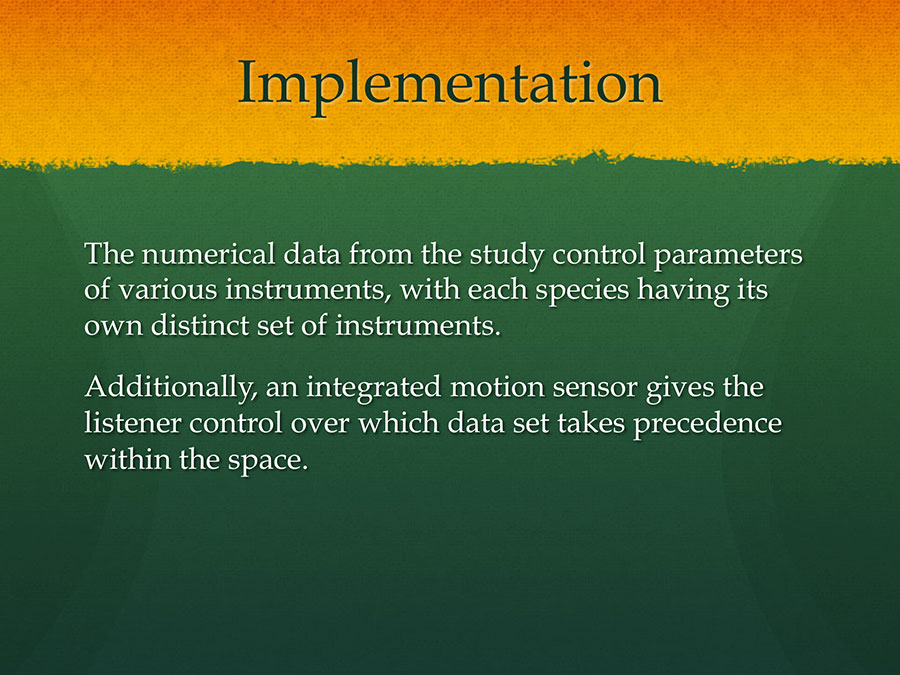
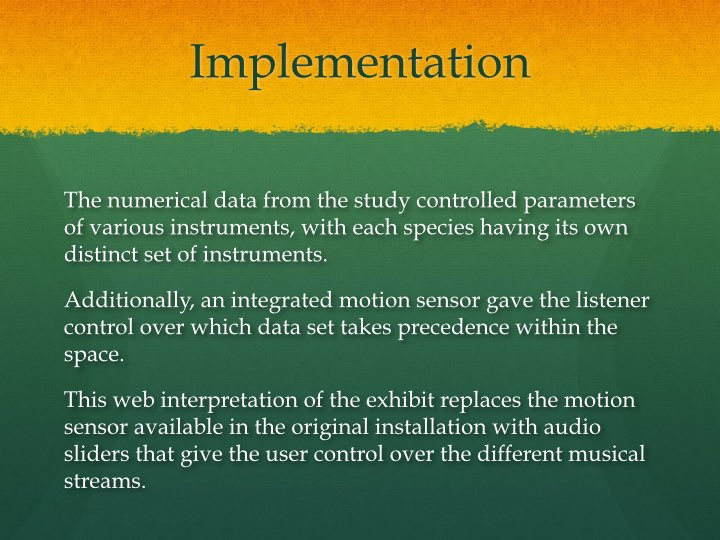
edited slides to the final versions, made some text edits to adhear to the web interface

diff --git a/index.html b/index.html
@@ -179,57 +179,47 @@
                 <div class="item active">
                     <img src="/wolf-img/slides/Slide01.jpg" alt="PowerPoint Presentation">
                 </div>
-
                 <div class="item">
                     <img src="/wolf-img/slides/Slide02.jpg" alt="PowerPoint Presentation">
                 </div>
-
                 <div class="item">
                     <img src="/wolf-img/slides/Slide03.jpg" alt="PowerPoint Presentation">
                 </div>
-
                 <div class="item">
                     <img src="/wolf-img/slides/Slide04.jpg" alt="PowerPoint Presentation">
                 </div>
-
                 <div class="item">
                     <img src="/wolf-img/slides/Slide05.jpg" alt="PowerPoint Presentation">
                 </div>
-
                 <div class="item">
                     <img src="/wolf-img/slides/Slide06.jpg" alt="PowerPoint Presentation">
                 </div>
-
                 <div class="item">
                     <img src="/wolf-img/slides/Slide07.jpg" alt="PowerPoint Presentation">
                 </div>
-
                 <div class="item">
                     <img src="/wolf-img/slides/Slide08.jpg" alt="PowerPoint Presentation">
                 </div>
-
+                <div class="item">
+                    <img src="/wolf-img/slides/Slide09.jpg" alt="PowerPoint Presentation">
+                </div>
                 <div class="item">
                     <img src="/wolf-img/slides/Slide10.jpg" alt="PowerPoint Presentation">
                 </div>
-
                 <div class="item">
                     <img src="/wolf-img/slides/Slide11.jpg" alt="PowerPoint Presentation">
                 </div>
-
                 <div class="item">
                     <img src="/wolf-img/slides/Slide12.jpg" alt="PowerPoint Presentation">
                 </div>
-
                 <div class="item">
                     <img src="/wolf-img/slides/Slide13.jpg" alt="PowerPoint Presentation">
                 </div>
-
                 <div class="item">
                     <img src="/wolf-img/slides/Slide14.jpg" alt="PowerPoint Presentation">
                 </div>
-
                 <div class="item">
-                    <img src="/wolf-img/slides/Slide17.jpg" alt="PowerPoint Presentation">
+                    <img src="/wolf-img/slides/Slide15.jpg" alt="PowerPoint Presentation">
                 </div>
                 <!-- Left and right controls -->
                 <a class="left carousel-control" href="#slideshow" role="button" data-slide="prev">

diff --git a/wolf-css/wolf-moose.css b/wolf-css/wolf-moose.css
@@ -213,8 +213,8 @@ Slider CSS
 Slide Show Carousel CSS
 */
 #slideshow {
-    height: 675px;
-    width: 900px;
+    height: 540px;
+    width: 720px;
     margin: auto;
     margin-top: 60px;
     margin-bottom: 20px;
@@ -225,9 +225,9 @@ Slide Show Carousel CSS
         height: auto;
     }
 }
-/*#slideshow .carousel-control {
+#slideshow .carousel-control {
     width: 10%;
-}*/
+}
 /*
 Background Slideshow CSS
 */
